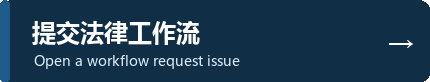
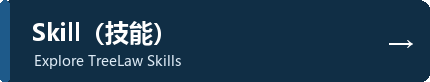
Route README CTAs to TreeLaw site

Changed region(s): [[0.0605, 0.2439, 0.4837, 0.561], [0.0605, 0.6585, 0.5744, 0.8537]]

diff --git a/README.md b/README.md
@@ -5,7 +5,13 @@
 
 A curated library of 212 hand-crafted, lawyer-verified legal agent skills for Chinese legal practice, covering litigation lawyers, transactional lawyers, general counsel, and corporate compliance teams.
 
-[技能总览](#skill-index) · [设计理念](#自主编排的法律智能体) · [评测覆盖](#真实律师工作流打磨) · [使用方式](https://treelaw.top) · [贡献技能](../../issues/new?template=workflow_request.yml)
+[技能总览](#skill-index) · [设计理念](#自主编排的法律智能体) · [评测覆盖](#真实律师工作流打磨) · [使用方式](https://treelaw.top) · [贡献技能](https://treelaw.top)
+
+<p align="center">
+  <a href="https://treelaw.top">
+    <img src="assets/skill-index/button-start-using.png" alt="开始使用 TreeLaw" width="520">
+  </a>
+</p>
 
 <p align="center">
   <img src="assets/treelaw-hero.png" alt="TreeLaw 法律 AI 智能体" width="100%">
@@ -13,7 +19,7 @@ A curated library of 212 hand-crafted, lawyer-verified legal agent skills for Ch
 
 TreeLaw 不是一个泛用聊天机器人。它是面向中国法律实务构建的法律 Agent，把诉讼律师、非诉律师、常年法律顾问和企业合规团队的工作流，拆成可执行、可核验、可交付的专业技能。
 
-[访问官网](https://treelaw.top) · [申请内测](../../issues/new?template=beta_request.yml) · [提交法律工作流](../../issues/new?template=workflow_request.yml)
+[访问官网](https://treelaw.top) · [开始使用](https://treelaw.top) · [Skill（技能）](https://treelaw.top)
 
 ## Skill Index
 
@@ -31,27 +37,27 @@ TreeLaw 的核心不是“回答法律问题”，而是把中国律师真实工
 
 > **理论依据** IRAC 争点分析、请求权基础检索、类案检索、法条体系解释、裁判规则归纳、法律依据可追溯核验。
 
-<p><img src="assets/skill-index/skill-case-issue-decomposition.png" alt="case-issue-decomposition"></p>
+<p><a href="https://treelaw.top"><img src="assets/skill-index/skill-case-issue-decomposition.png" alt="case-issue-decomposition"></a></p>
 
 把案件事实拆成可检索的争点、要件和抗辩路径。
 
-<p><img src="assets/skill-index/skill-statute-authority-verification.png" alt="statute-authority-verification"></p>
+<p><a href="https://treelaw.top"><img src="assets/skill-index/skill-statute-authority-verification.png" alt="statute-authority-verification"></a></p>
 
 围绕国家法律法规、司法解释、部门规章和裁判规则核验依据。
 
-<p><img src="assets/skill-index/skill-known-case-number-check.png" alt="known-case-number-check"></p>
+<p><a href="https://treelaw.top"><img src="assets/skill-index/skill-known-case-number-check.png" alt="known-case-number-check"></a></p>
 
 根据案号、法院、当事人和裁判要旨核验已知案例。
 
-<p><img src="assets/skill-index/skill-favorable-case-retrieval.png" alt="favorable-case-retrieval"></p>
+<p><a href="https://treelaw.top"><img src="assets/skill-index/skill-favorable-case-retrieval.png" alt="favorable-case-retrieval"></a></p>
 
 寻找同争点、同法院层级或同地区裁判倾向下的有利案例。
 
-<p><img src="assets/skill-index/skill-adverse-authority-mapping.png" alt="adverse-authority-mapping"></p>
+<p><a href="https://treelaw.top"><img src="assets/skill-index/skill-adverse-authority-mapping.png" alt="adverse-authority-mapping"></a></p>
 
 主动整理不利观点、不利案例和对方可能引用的材料。
 
-<p><img src="assets/skill-index/skill-citation-source-audit.png" alt="citation-source-audit"></p>
+<p><a href="https://treelaw.top"><img src="assets/skill-index/skill-citation-source-audit.png" alt="citation-source-audit"></a></p>
 
 对输出中的法条、案例和政策依据做可追溯核查。
 
@@ -61,23 +67,23 @@ TreeLaw 的核心不是“回答法律问题”，而是把中国律师真实工
 
 > **理论依据** 证据三性、证明责任分配、事实要件映射、材料索引、OCR 来源追踪、矛盾事实比对。
 
-<p><img src="assets/skill-index/skill-fact-evidence-indexing.png" alt="fact-evidence-indexing"></p>
+<p><a href="https://treelaw.top"><img src="assets/skill-index/skill-fact-evidence-indexing.png" alt="fact-evidence-indexing"></a></p>
 
 把事实、证据、证明目的和页码来源整理成可复核目录。
 
-<p><img src="assets/skill-index/skill-ocr-source-tracing.png" alt="ocr-source-tracing"></p>
+<p><a href="https://treelaw.top"><img src="assets/skill-index/skill-ocr-source-tracing.png" alt="ocr-source-tracing"></a></p>
 
 扫描件 OCR 后保留原文、页码和字段来源，便于人工确认。
 
-<p><img src="assets/skill-index/skill-evidence-chain-mapping.png" alt="evidence-chain-mapping"></p>
+<p><a href="https://treelaw.top"><img src="assets/skill-index/skill-evidence-chain-mapping.png" alt="evidence-chain-mapping"></a></p>
 
 按法律要件建立证据链，识别证明缺口和补强方向。
 
-<p><img src="assets/skill-index/skill-contradiction-spotting.png" alt="contradiction-spotting"></p>
+<p><a href="https://treelaw.top"><img src="assets/skill-index/skill-contradiction-spotting.png" alt="contradiction-spotting"></a></p>
 
 比对合同、流水、聊天记录和陈述中的冲突信息。
 
-<p><img src="assets/skill-index/skill-pleading-fact-extraction.png" alt="pleading-fact-extraction"></p>
+<p><a href="https://treelaw.top"><img src="assets/skill-index/skill-pleading-fact-extraction.png" alt="pleading-fact-extraction"></a></p>
 
 从材料中抽取起诉状、答辩状和法律意见书所需事实。
 
@@ -87,27 +93,27 @@ TreeLaw 的核心不是“回答法律问题”，而是把中国律师真实工
 
 > **理论依据** 请求权基础、诉讼请求设计、举证责任、程序节点、庭审争点整理、救济路径规划。
 
-<p><img src="assets/skill-index/skill-litigation-strategy-map.png" alt="litigation-strategy-map"></p>
+<p><a href="https://treelaw.top"><img src="assets/skill-index/skill-litigation-strategy-map.png" alt="litigation-strategy-map"></a></p>
 
 从请求权基础、举证责任、程序节点和诉讼目标生成策略图。
 
-<p><img src="assets/skill-index/skill-complaint-drafting.png" alt="complaint-drafting"></p>
+<p><a href="https://treelaw.top"><img src="assets/skill-index/skill-complaint-drafting.png" alt="complaint-drafting"></a></p>
 
 根据案件台账和证据结构生成民事起诉状。
 
-<p><img src="assets/skill-index/skill-defense-and-counterclaim.png" alt="defense-and-counterclaim"></p>
+<p><a href="https://treelaw.top"><img src="assets/skill-index/skill-defense-and-counterclaim.png" alt="defense-and-counterclaim"></a></p>
 
 组织答辩意见、反诉路径和抗辩要点。
 
-<p><img src="assets/skill-index/skill-preservation-application.png" alt="preservation-application"></p>
+<p><a href="https://treelaw.top"><img src="assets/skill-index/skill-preservation-application.png" alt="preservation-application"></a></p>
 
 生成财产保全、证据保全和行为保全申请材料。
 
-<p><img src="assets/skill-index/skill-hearing-outline-generation.png" alt="hearing-outline-generation"></p>
+<p><a href="https://treelaw.top"><img src="assets/skill-index/skill-hearing-outline-generation.png" alt="hearing-outline-generation"></a></p>
 
 整理庭审提纲、发问清单、质证意见和争点回应。
 
-<p><img src="assets/skill-index/skill-judgment-remedy-planning.png" alt="judgment-remedy-planning"></p>
+<p><a href="https://treelaw.top"><img src="assets/skill-index/skill-judgment-remedy-planning.png" alt="judgment-remedy-planning"></a></p>
 
 评估上诉、再审、执行和和解路径。
 
@@ -117,27 +123,27 @@ TreeLaw 的核心不是“回答法律问题”，而是把中国律师真实工
 
 > **理论依据** 交易结构还原、合同目的解释、权利义务配置、违约责任设计、风险分配、商业谈判可执行性。
 
-<p><img src="assets/skill-index/skill-transaction-structure-analysis.png" alt="transaction-structure-analysis"></p>
+<p><a href="https://treelaw.top"><img src="assets/skill-index/skill-transaction-structure-analysis.png" alt="transaction-structure-analysis"></a></p>
 
 先识别交易结构、主体关系和履约路径，再审条款。
 
-<p><img src="assets/skill-index/skill-contract-risk-review.png" alt="contract-risk-review"></p>
+<p><a href="https://treelaw.top"><img src="assets/skill-index/skill-contract-risk-review.png" alt="contract-risk-review"></a></p>
 
 按客户立场审查付款、交付、验收、违约、解除和争议解决。
 
-<p><img src="assets/skill-index/skill-redline-clause-suggestion.png" alt="redline-clause-suggestion"></p>
+<p><a href="https://treelaw.top"><img src="assets/skill-index/skill-redline-clause-suggestion.png" alt="redline-clause-suggestion"></a></p>
 
 给出可替换条款、红线修改意见和谈判口径。
 
-<p><img src="assets/skill-index/skill-missing-clause-check.png" alt="missing-clause-check"></p>
+<p><a href="https://treelaw.top"><img src="assets/skill-index/skill-missing-clause-check.png" alt="missing-clause-check"></a></p>
 
 识别缺失条款、冲突条款和表述不确定条款。
 
-<p><img src="assets/skill-index/skill-counterparty-risk-screen.png" alt="counterparty-risk-screen"></p>
+<p><a href="https://treelaw.top"><img src="assets/skill-index/skill-counterparty-risk-screen.png" alt="counterparty-risk-screen"></a></p>
 
 围绕主体资格、授权链条、履约能力和监管风险做初筛。
 
-<p><img src="assets/skill-index/skill-negotiation-playbook.png" alt="negotiation-playbook"></p>
+<p><a href="https://treelaw.top"><img src="assets/skill-index/skill-negotiation-playbook.png" alt="negotiation-playbook"></a></p>
 
 把审查意见转化为可执行的谈判优先级。
 
@@ -147,27 +153,27 @@ TreeLaw 的核心不是“回答法律问题”，而是把中国律师真实工
 
 > **理论依据** 标准化台账、OCR 人工确认、金融借款/担保/还款事实核验、模板化文书生成、批量质量控制。
 
-<p><img src="assets/skill-index/skill-batch-litigation-intake.png" alt="batch-litigation-intake"></p>
+<p><a href="https://treelaw.top"><img src="assets/skill-index/skill-batch-litigation-intake.png" alt="batch-litigation-intake"></a></p>
 
 从合同、扫描件、流水和还款记录中批量生成标准台账。
 
-<p><img src="assets/skill-index/skill-ledger-human-review.png" alt="ledger-human-review"></p>
+<p><a href="https://treelaw.top"><img src="assets/skill-index/skill-ledger-human-review.png" alt="ledger-human-review"></a></p>
 
 生成可视化核验页，让实习生或律师确认关键字段。
 
-<p><img src="assets/skill-index/skill-repayment-interest-check.png" alt="repayment-interest-check"></p>
+<p><a href="https://treelaw.top"><img src="assets/skill-index/skill-repayment-interest-check.png" alt="repayment-interest-check"></a></p>
 
 核对本金、利息、罚息、逾期金额和律师费。
 
-<p><img src="assets/skill-index/skill-template-document-filling.png" alt="template-document-filling"></p>
+<p><a href="https://treelaw.top"><img src="assets/skill-index/skill-template-document-filling.png" alt="template-document-filling"></a></p>
 
 把确认台账填入起诉状、委托书、条件表和证据目录模板。
 
-<p><img src="assets/skill-index/skill-evidence-binder-production.png" alt="evidence-binder-production"></p>
+<p><a href="https://treelaw.top"><img src="assets/skill-index/skill-evidence-binder-production.png" alt="evidence-binder-production"></a></p>
 
 批量生成证据目录、附件清单和可追溯材料包。
 
-<p><img src="assets/skill-index/skill-batch-output-qc.png" alt="batch-output-qc"></p>
+<p><a href="https://treelaw.top"><img src="assets/skill-index/skill-batch-output-qc.png" alt="batch-output-qc"></a></p>
 
 检查主体、金额、日期、案由和模板字段是否一致。
 
@@ -177,27 +183,27 @@ TreeLaw 的核心不是“回答法律问题”，而是把中国律师真实工
 
 > **理论依据** 企业法律问题分诊、制度治理、授权链条、劳动用工、数据合规、公司治理和业务风险闭环。
 
-<p><img src="assets/skill-index/skill-general-counsel-triage.png" alt="general-counsel-triage"></p>
+<p><a href="https://treelaw.top"><img src="assets/skill-index/skill-general-counsel-triage.png" alt="general-counsel-triage"></a></p>
 
 把日常法律问题分流到合同、劳动、公司治理、合规或诉讼路径。
 
-<p><img src="assets/skill-index/skill-compliance-gap-assessment.png" alt="compliance-gap-assessment"></p>
+<p><a href="https://treelaw.top"><img src="assets/skill-index/skill-compliance-gap-assessment.png" alt="compliance-gap-assessment"></a></p>
 
 围绕业务流程识别制度、授权、数据、用工和监管缺口。
 
-<p><img src="assets/skill-index/skill-policy-drafting.png" alt="policy-drafting"></p>
+<p><a href="https://treelaw.top"><img src="assets/skill-index/skill-policy-drafting.png" alt="policy-drafting"></a></p>
 
 生成制度、流程、通知、函件和内部合规文件初稿。
 
-<p><img src="assets/skill-index/skill-labor-and-data-compliance.png" alt="labor-and-data-compliance"></p>
+<p><a href="https://treelaw.top"><img src="assets/skill-index/skill-labor-and-data-compliance.png" alt="labor-and-data-compliance"></a></p>
 
 处理劳动用工、个人信息保护和数据出境相关问题。
 
-<p><img src="assets/skill-index/skill-company-governance-check.png" alt="company-governance-check"></p>
+<p><a href="https://treelaw.top"><img src="assets/skill-index/skill-company-governance-check.png" alt="company-governance-check"></a></p>
 
 核查股东会、董事会、授权、印章和内部审批规则。
 
-<p><img src="assets/skill-index/skill-board-resolution-review.png" alt="board-resolution-review"></p>
+<p><a href="https://treelaw.top"><img src="assets/skill-index/skill-board-resolution-review.png" alt="board-resolution-review"></a></p>
 
 审查或生成决议、会议纪要和授权文件。
 
@@ -207,23 +213,23 @@ TreeLaw 的核心不是“回答法律问题”，而是把中国律师真实工
 
 > **理论依据** 法律意见书结构、事实与问题分离、依据检索、风险矩阵、管理层决策表达。
 
-<p><img src="assets/skill-index/skill-legal-opinion-drafting.png" alt="legal-opinion-drafting"></p>
+<p><a href="https://treelaw.top"><img src="assets/skill-index/skill-legal-opinion-drafting.png" alt="legal-opinion-drafting"></a></p>
 
 按事实、问题、依据、分析、结论和风险边界生成法律意见书。
 
-<p><img src="assets/skill-index/skill-regulatory-research.png" alt="regulatory-research"></p>
+<p><a href="https://treelaw.top"><img src="assets/skill-index/skill-regulatory-research.png" alt="regulatory-research"></a></p>
 
 围绕行业监管、地方规则和最新政策生成专题研究。
 
-<p><img src="assets/skill-index/skill-risk-matrix-generation.png" alt="risk-matrix-generation"></p>
+<p><a href="https://treelaw.top"><img src="assets/skill-index/skill-risk-matrix-generation.png" alt="risk-matrix-generation"></a></p>
 
 把法律风险转化为概率、影响、依据和整改动作矩阵。
 
-<p><img src="assets/skill-index/skill-source-backed-memo.png" alt="source-backed-memo"></p>
+<p><a href="https://treelaw.top"><img src="assets/skill-index/skill-source-backed-memo.png" alt="source-backed-memo"></a></p>
 
 输出带来源、适用条件和人工复核提示的研究备忘录。
 
-<p><img src="assets/skill-index/skill-executive-briefing.png" alt="executive-briefing"></p>
+<p><a href="https://treelaw.top"><img src="assets/skill-index/skill-executive-briefing.png" alt="executive-briefing"></a></p>
 
 把复杂法律分析压缩成管理层可读的决策简报。
 
@@ -252,14 +258,14 @@ TreeLaw 的技能体系来自真实法律工作，而不是只把法律文本塞
 
 ## 参与测试 / 提交技能
 
-如果你对中国法律 AI 感兴趣，或者希望 TreeLaw 支持你的真实法律工作流，可以直接提交 Issue。请只提交脱敏后的工作流描述，不要在公开仓库中粘贴客户姓名、合同正文、身份证号、案号、手机号、商业秘密或其他敏感信息。
+如果你对中国法律 AI 感兴趣，或者希望 TreeLaw 支持你的真实法律工作流，可以从官网开始使用并加入内测。请不要在公开仓库中粘贴客户姓名、合同正文、身份证号、案号、手机号、商业秘密或其他敏感信息。
 
 <p>
-  <a href="../../issues/new?template=workflow_request.yml">
-    <img src="assets/skill-index/button-submit-workflow.png" alt="提交法律工作流" width="360">
+  <a href="https://treelaw.top">
+    <img src="assets/skill-index/button-submit-workflow.png" alt="Skill（技能）" width="360">
   </a>
-  <a href="../../issues/new?template=beta_request.yml">
-    <img src="assets/skill-index/button-join-beta.png" alt="申请参与内测" width="360">
+  <a href="https://treelaw.top">
+    <img src="assets/skill-index/button-join-beta.png" alt="开始使用 TreeLaw" width="360">
   </a>
 </p>
 
